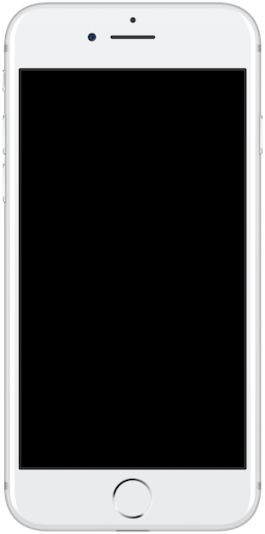
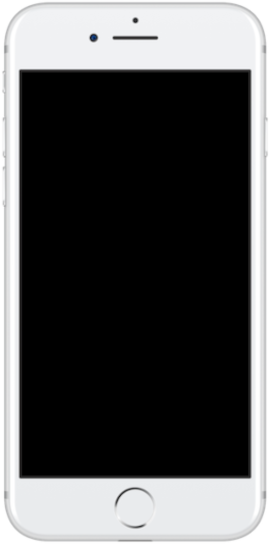
atualização

diff --git a/estilos/style.css b/estilos/style.css
@@ -40,10 +40,10 @@ section#telefone{
 }
 iframe#tela{
     position: relative;
-    top: 70px;
+    top: 72px;
     left: 22px;
-    width: 222px;
-    height: 397px;
+    width: 227px;
+    height: 403px;
     background-size:cover ;
 }
 section#redes-sociais{
